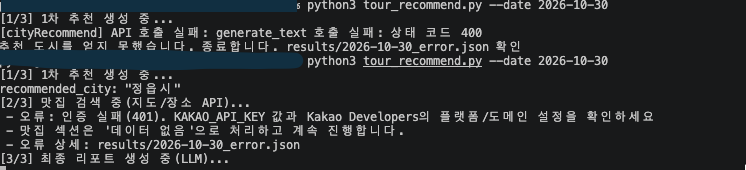
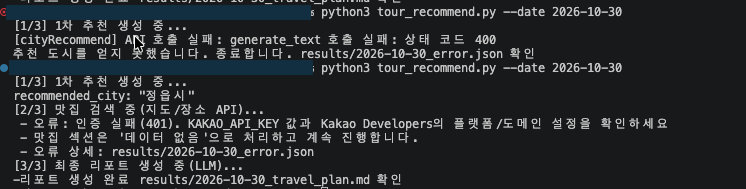
doc:readme

Changed region(s): [[0.0, 0.0, 0.8941, 1.0]]

diff --git a/results/2026-10-30_travel_plan.md b/results/2026-10-30_travel_plan.md
@@ -4,22 +4,22 @@
 정읍시
 
 ## 추천 이유
-10월 말은 대한민국 최고의 단풍 명소인 내장산이 붉게 물드는 절정의 시기입니다. 붉고 촘촘한 아기단풍이 만드는 환상적인 단풍 터널과 호수가 어우러진 정경은 이 시기 정읍에서만 느낄 수 있는 가을의 정수입니다.
+10월 말은 '단풍의 명소'인 내장산의 아기단풍이 가장 붉고 화려하게 물드는 절정기입니다. 내장사와 우화정 일대를 뒤덮는 붉은 단풍 터널과 정읍천 변의 가을 국화 향기가 어우러져 최고 수준의 가을 풍경을 만끽할 수 있습니다.
 
 ## 날씨 요약
-10월 말 정읍은 평균 기온 10~15℃ 안팎으로 아침저녁은 쌀쌀하지만 낮에는 선선하고 야외활동에 쾌적합니다. 대체로 맑고 강수량이 적은 가을 날씨가 지속되며 일교차가 큰 편입니다.
+10월 말 정읍시는 최저기온 5℃에서 최고기온 17℃ 안팎으로 낮에는 선선하고 아침저녁으로는 쌀쌀한 전형적인 가을 날씨를 보입니다. 대체로 맑고 건조한 날씨가 이어져 야외 트레킹과 관광에 매우 적합합니다.
 
 ## 행사/축제
-- 정읍 구절초 꽃축제
-- 내장산 단풍 탐방 행사
+- 정읍 국화축제
+- 내장산 단풍 시기 맞이 문화행사
 
 ## 맛집 추천
 데이터 없음
 
 ## 1일 일정 제안
-- 오전: '정읍 구절초 꽃축제'를 방문하여 축제 즐기기
-- 오후: 내장산으로 이동해 '내장산 단풍 탐방 행사'에 참여하고, 붉은 아기단풍 터널과 호수가 어우러진 가을 풍경 감상하기
-- 참고 사항: 아침저녁으로 쌀쌀하고 일교차가 크므로 야외활동 시 겉옷 준비하기
+- 오전: 내장산을 방문하여 우화정과 내장사 일대의 붉은 단풍 터널을 감상하며 야외 트레킹을 즐깁니다.
+- 오후: 내장산 단풍 시기 맞이 문화행사에 참여하여 가을 풍경과 행사를 즐깁니다.
+- 저녁: 정읍천 변으로 이동하여 정읍 국화축제를 둘러보고 가을 국화 향기를 만끽합니다.
 
 ## 오류 요약(errors)
 - [restaurantRecommend] RuntimeError: 인증 실패(401). KAKAO_API_KEY 값과 Kakao Developers의 플랫폼/도메인 설정을 확인하세요
